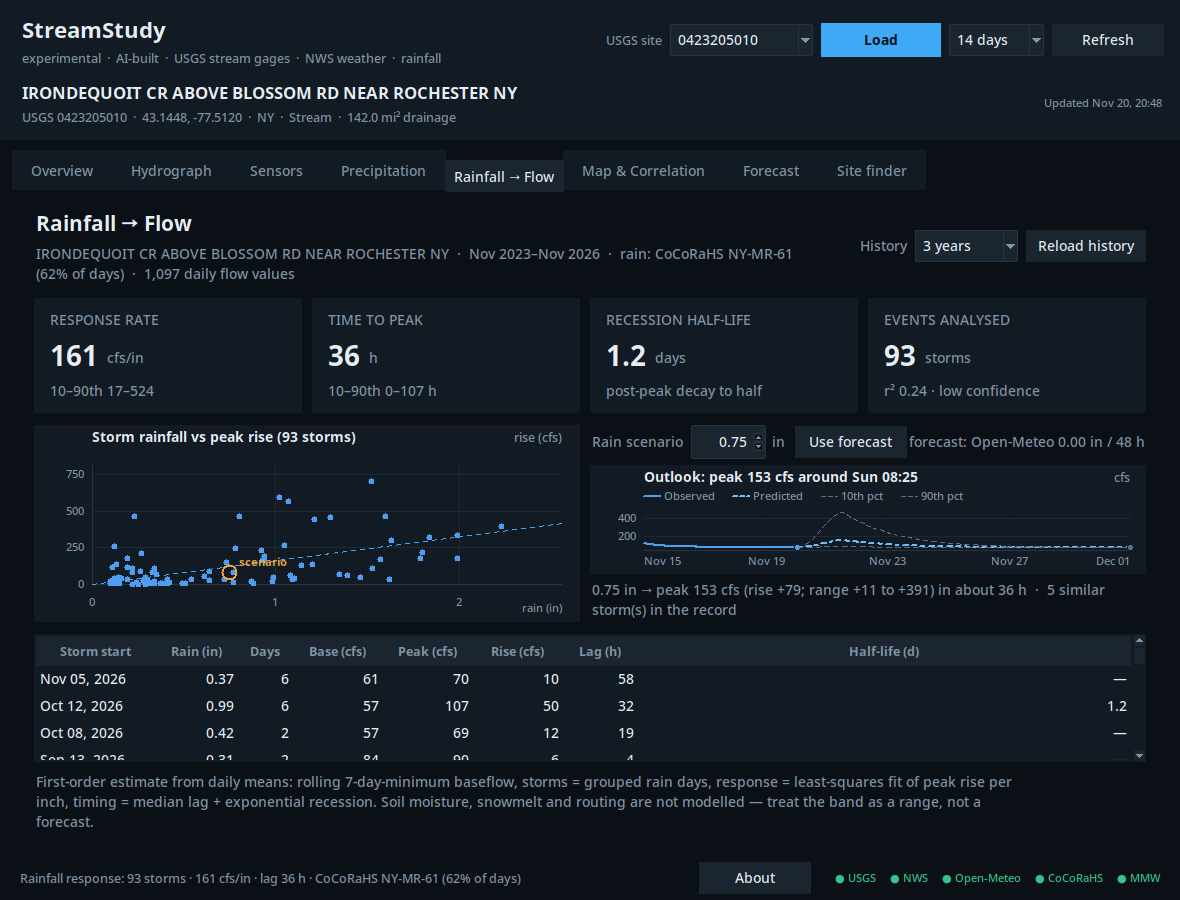
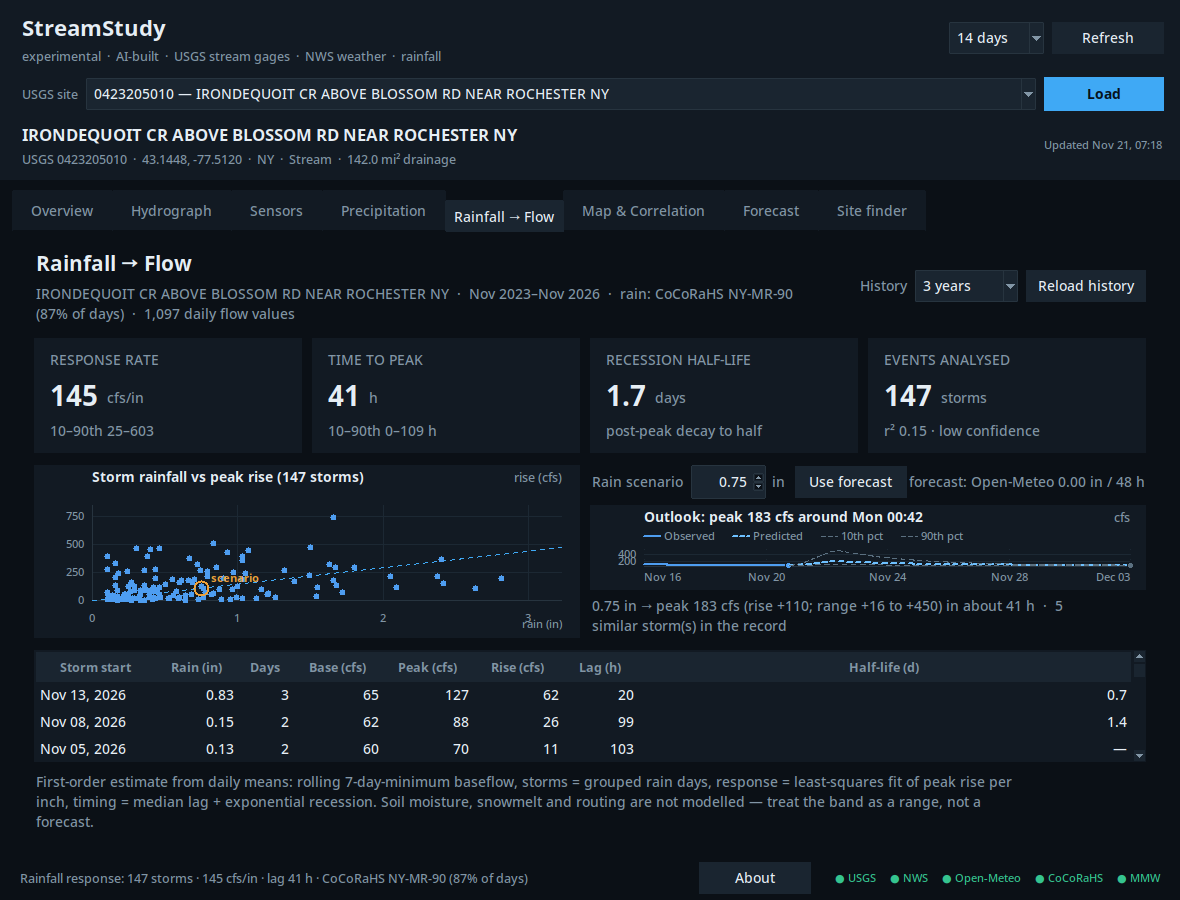
Show station names in the USGS site picker
- The picker now lists recent sites as 'number — station name' and shows
  the full name in the field; the header gives it a full-width row so the
  Load/days/Refresh controls are no longer pushed off-screen
- Persist a number→name map in settings (site_names) so names appear
  immediately on the next launch
- parse_site_number() extracts the number from a label or a typed entry;
  raw numbers and USGS- prefixed input still work
- Tests for label parsing and the populated pull-down (108 total)
- Screenshots refreshed

diff --git a/streamstudy/app.py b/streamstudy/app.py
@@ -4,6 +4,7 @@ from __future__ import annotations
 
 import math
 import queue
+import re
 import threading
 import tkinter as tk
 from tkinter import messagebox, ttk
@@ -67,6 +68,18 @@ def normalize_site(value: str) -> str:
     return text.strip()
 
 
+_SITE_ID = re.compile(r"(\d{4,15})")
+
+
+def parse_site_number(value: str) -> str:
+    """Pull the USGS site number out of a picker label or a typed entry."""
+    text = (value or "").strip()
+    match = _SITE_ID.search(text)
+    if match:
+        return match.group(1)
+    return text if text.isdigit() else ""
+
+
 class StreamStudyApp:
     def __init__(
         self,
@@ -81,6 +94,10 @@ class StreamStudyApp:
         self.loader = BundleLoader.from_dict(self.providers)
         self.settings_path = settings_path
         self.settings = load_settings(settings_path)
+        self.site_names = {
+            str(number): str(name)
+            for number, name in (self.settings.get("site_names") or {}).items()
+        }
         self.days = int(self.settings.get("days", 14))
         self.bundle: DataBundle | None = None
         self.history_years = int(self.settings.get("history_years", 3))
@@ -119,7 +136,7 @@ class StreamStudyApp:
         self.root.rowconfigure(1, weight=1)
 
         # -- header
-        header = ttk.Frame(self.root, style="Header.TFrame", padding=(20, 12, 16, 12))
+        header = ttk.Frame(self.root, style="Header.TFrame", padding=(20, 10, 16, 10))
         header.grid(row=0, column=0, sticky="ew")
         header.columnconfigure(1, weight=1)
 
@@ -136,27 +153,11 @@ class StreamStudyApp:
             font=(family, 9),
         ).pack(anchor="w")
 
-        controls = ttk.Frame(header, style="Header.TFrame")
-        controls.grid(row=0, column=2, sticky="e")
-        ttk.Label(controls, text="USGS site", style="HeaderMuted.TLabel").pack(
-            side="left", padx=(0, 6)
-        )
-        self.site_var = tk.StringVar(value=str(self.settings.get("last_site", DEFAULT_SITE)))
-        self.site_combo = ttk.Combobox(
-            controls,
-            textvariable=self.site_var,
-            width=14,
-            values=self.settings.get("recent_sites", []),
-        )
-        self.site_combo.pack(side="left")
-        self.site_combo.bind("<Return>", lambda _event: self.reload())
-        ttk.Button(
-            controls, text="Load", style="Accent.TButton", command=self.reload
-        ).pack(side="left", padx=(8, 4))
-
+        right_controls = ttk.Frame(header, style="Header.TFrame")
+        right_controls.grid(row=0, column=2, sticky="e")
         self.days_var = tk.StringVar(value=f"{self.days} days")
         days_box = ttk.Combobox(
-            controls,
+            right_controls,
             textvariable=self.days_var,
             width=8,
             state="readonly",
@@ -164,9 +165,29 @@ class StreamStudyApp:
         )
         days_box.pack(side="left", padx=4)
         days_box.bind("<<ComboboxSelected>>", self._on_days_changed)
-        ttk.Button(controls, text="Refresh", command=self.refresh).pack(
+        ttk.Button(right_controls, text="Refresh", command=self.refresh).pack(
             side="left", padx=(4, 0)
         )
+
+        picker = ttk.Frame(header, style="Header.TFrame")
+        picker.grid(row=1, column=0, columnspan=3, sticky="ew", pady=(10, 0))
+        picker.columnconfigure(1, weight=1)
+        ttk.Label(picker, text="USGS site", style="HeaderMuted.TLabel").grid(
+            row=0, column=0, sticky="w", padx=(0, 6)
+        )
+        last_site = str(self.settings.get("last_site", DEFAULT_SITE))
+        self.site_var = tk.StringVar(value=self._site_label(last_site))
+        self.site_combo = ttk.Combobox(
+            picker,
+            textvariable=self.site_var,
+            width=70,
+            values=self._recent_labels(),
+        )
+        self.site_combo.grid(row=0, column=1, sticky="ew")
+        self.site_combo.bind("<Return>", lambda _event: self.reload())
+        ttk.Button(
+            picker, text="Load", style="Accent.TButton", command=self.reload
+        ).grid(row=0, column=2, padx=(8, 0))
 
         self.title_label = tk.Label(
             header,
@@ -176,15 +197,15 @@ class StreamStudyApp:
             font=(family, 12, "bold"),
             anchor="w",
         )
-        self.title_label.grid(row=1, column=0, columnspan=2, sticky="w", pady=(10, 0))
+        self.title_label.grid(row=2, column=0, columnspan=2, sticky="w", pady=(10, 0))
         self.sub_label = tk.Label(
             header, text="", bg=SURFACE, fg=MUTED, font=(family, 9), anchor="w"
         )
-        self.sub_label.grid(row=2, column=0, columnspan=2, sticky="w")
+        self.sub_label.grid(row=3, column=0, columnspan=2, sticky="w")
         self.fetched_label = tk.Label(
             header, text="", bg=SURFACE, fg=MUTED, font=(family, 8), anchor="e"
         )
-        self.fetched_label.grid(row=1, column=2, rowspan=2, sticky="e", pady=(10, 0))
+        self.fetched_label.grid(row=2, column=2, rowspan=2, sticky="e", pady=(10, 0))
 
         # -- tabs
         self.notebook = ttk.Notebook(self.root)
@@ -258,7 +279,7 @@ class StreamStudyApp:
         self.root.destroy()
 
     def load_site(self, site_number: str, days: int | None = None) -> None:
-        number = normalize_site(site_number)
+        number = parse_site_number(site_number)
         if not number:
             messagebox.showwarning(
                 APP_NAME, "Enter a USGS site number, e.g. 0423205010.", parent=self.root
@@ -624,6 +645,17 @@ class StreamStudyApp:
     def show_about(self) -> None:
         messagebox.showinfo(f"About {APP_NAME}", ABOUT_TEXT, parent=self.root)
 
+    # -- site picker ---------------------------------------------------
+    def _site_label(self, number: str) -> str:
+        name = self.site_names.get(number, "")
+        return f"{number} \u2014 {name}" if name else number
+
+    def _recent_labels(self) -> list[str]:
+        return [
+            self._site_label(str(number))
+            for number in self.settings.get("recent_sites", [])
+        ]
+
     def apply_bundle(self, bundle: DataBundle) -> None:
         self.bundle = bundle
         site = bundle.site
@@ -642,7 +674,10 @@ class StreamStudyApp:
         warning = f"  \u00b7  {len(bundle.errors)} warning(s)" if bundle.errors else ""
         self.fetched_label.configure(text=f"Updated {stamp}{warning}")
 
-        self.site_var.set(site.number)
+        if site.name:
+            self.site_names[site.number] = site.name
+        self.settings["site_names"] = dict(self.site_names)
+        self.site_var.set(self._site_label(site.number))
         for view in (
             self.home_view,
             self.hydro_view,
@@ -661,7 +696,8 @@ class StreamStudyApp:
 
         self.settings = remember_site(self.settings, site.number)
         self.settings["days"] = self.days
-        self.site_combo.configure(values=self.settings["recent_sites"])
+        self.settings["site_names"] = dict(self.site_names)
+        self.site_combo.configure(values=self._recent_labels())
         save_settings(self.settings, self.settings_path)
         self._ensure_history()
         self._ensure_map()

diff --git a/tests/test_app_smoke.py b/tests/test_app_smoke.py
@@ -10,7 +10,7 @@ try:
 except Exception:  # pragma: no cover
     tk = None
 
-from streamstudy.app import StreamStudyApp, normalize_site
+from streamstudy.app import StreamStudyApp, normalize_site, parse_site_number
 from streamstudy.loader import LoadOptions
 from streamstudy.providers import (
     CoCoRaHSProvider,
@@ -28,9 +28,22 @@ class NormalizeSiteTest(unittest.TestCase):
         self.assertEqual(normalize_site("0423205010"), "0423205010")
         self.assertEqual(normalize_site(""), "")
 
+    def test_parse_picker_label(self):
+        self.assertEqual(
+            parse_site_number(
+                "0423205010 \u2014 IRONDEQUOIT CR ABOVE BLOSSOM RD NEAR ROCHESTER NY"
+            ),
+            "0423205010",
+        )
+        self.assertEqual(parse_site_number("USGS-0423205010"), "0423205010")
+        self.assertEqual(parse_site_number(" 0423205010 "), "0423205010")
+        self.assertEqual(parse_site_number("Irondequoit"), "")
+
 
 @unittest.skipIf(tk is None, "tkinter is not available")
 class AppSmokeTest(unittest.TestCase):
+    # (tests defined below)
+
     def setUp(self):
         try:
             self.root = tk.Tk()
@@ -62,6 +75,13 @@ class AppSmokeTest(unittest.TestCase):
         except tk.TclError:  # pragma: no cover
             pass
         self.tmp.cleanup()
+
+    def test_site_pulldown_shows_names(self):
+        self.assertIn("IRONDEQUOIT", self.app.site_var.get())
+        values = self.app.site_combo.cget("values")
+        text = " ".join(values) if isinstance(values, tuple) else str(values)
+        self.assertIn("0423205010", text)
+        self.assertIn("IRONDEQUOIT", text)
 
     def test_tabs(self):
         labels = [self.app.notebook.tab(tab, "text") for tab in self.app.notebook.tabs()]

diff --git a/streamstudy/settings.py b/streamstudy/settings.py
@@ -14,6 +14,7 @@ DEFAULTS = {
     "recent_sites": [DEFAULT_SITE],
     "days": 14,
     "history_years": 3,
+    "site_names": {},
     "map_radius": 0.5,
     "map_years": 2,
     "coco_station": "",
@@ -50,6 +51,11 @@ def load_settings(path: str | Path | None = None) -> dict:
         pass
     if data["days"] not in ALLOWED_DAYS:
         data["days"] = DEFAULTS["days"]
+    names = data.get("site_names")
+    if not isinstance(names, dict):
+        data["site_names"] = {}
+    else:
+        data["site_names"] = {str(key): str(value) for key, value in names.items()}
     if data["history_years"] not in ALLOWED_HISTORY_YEARS:
         data["history_years"] = DEFAULTS["history_years"]
     if float(data.get("map_radius", 0.5)) not in ALLOWED_MAP_RADII:
